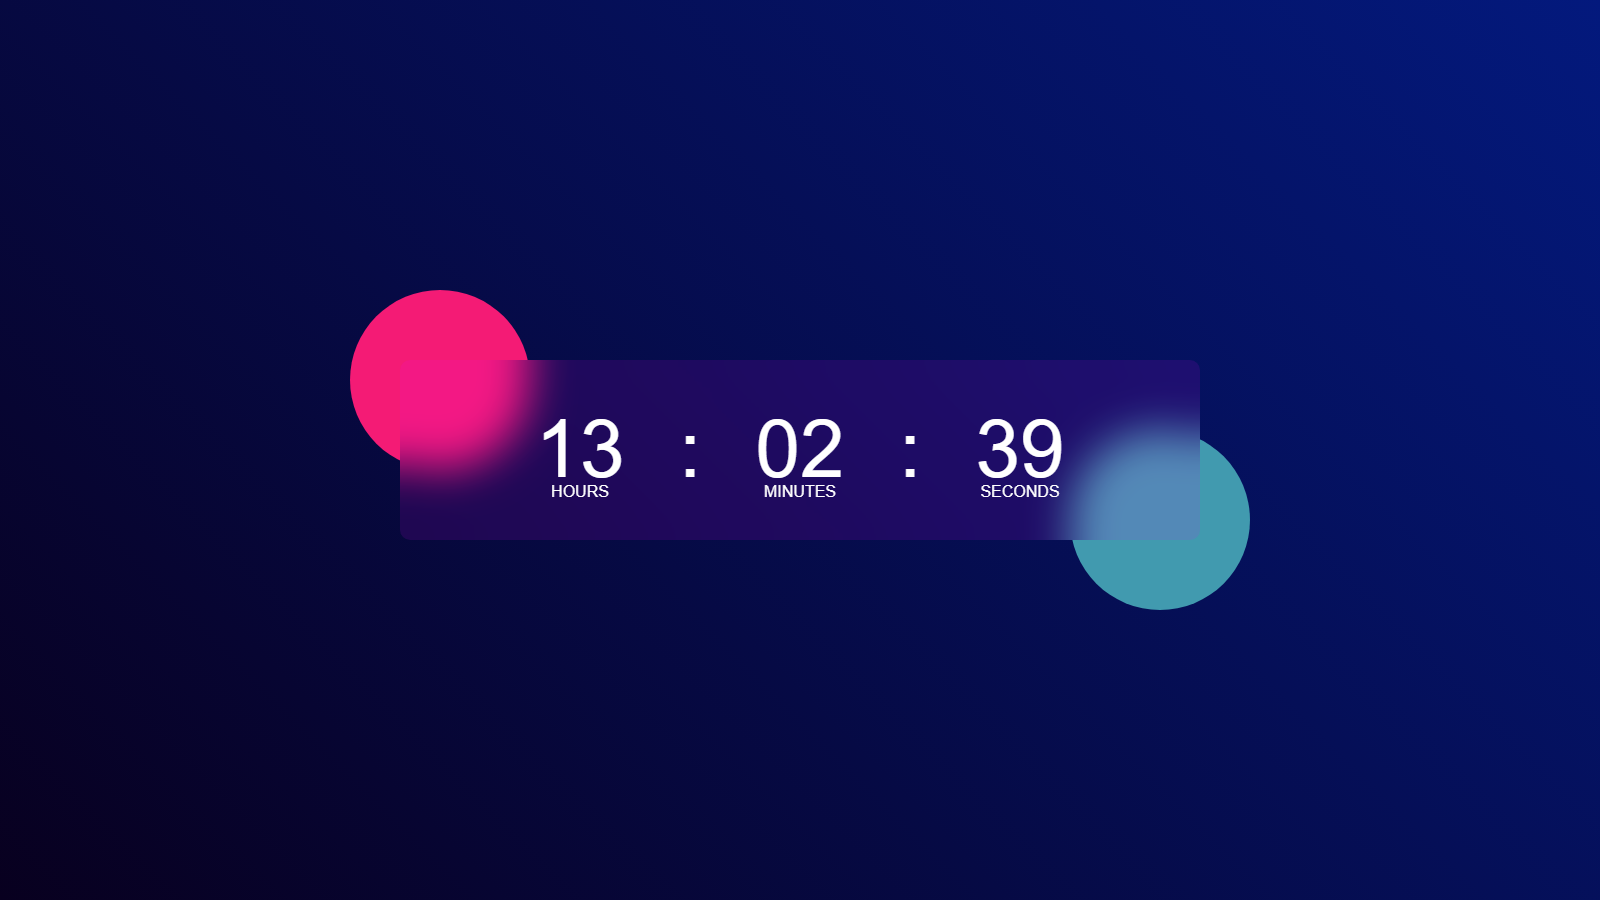
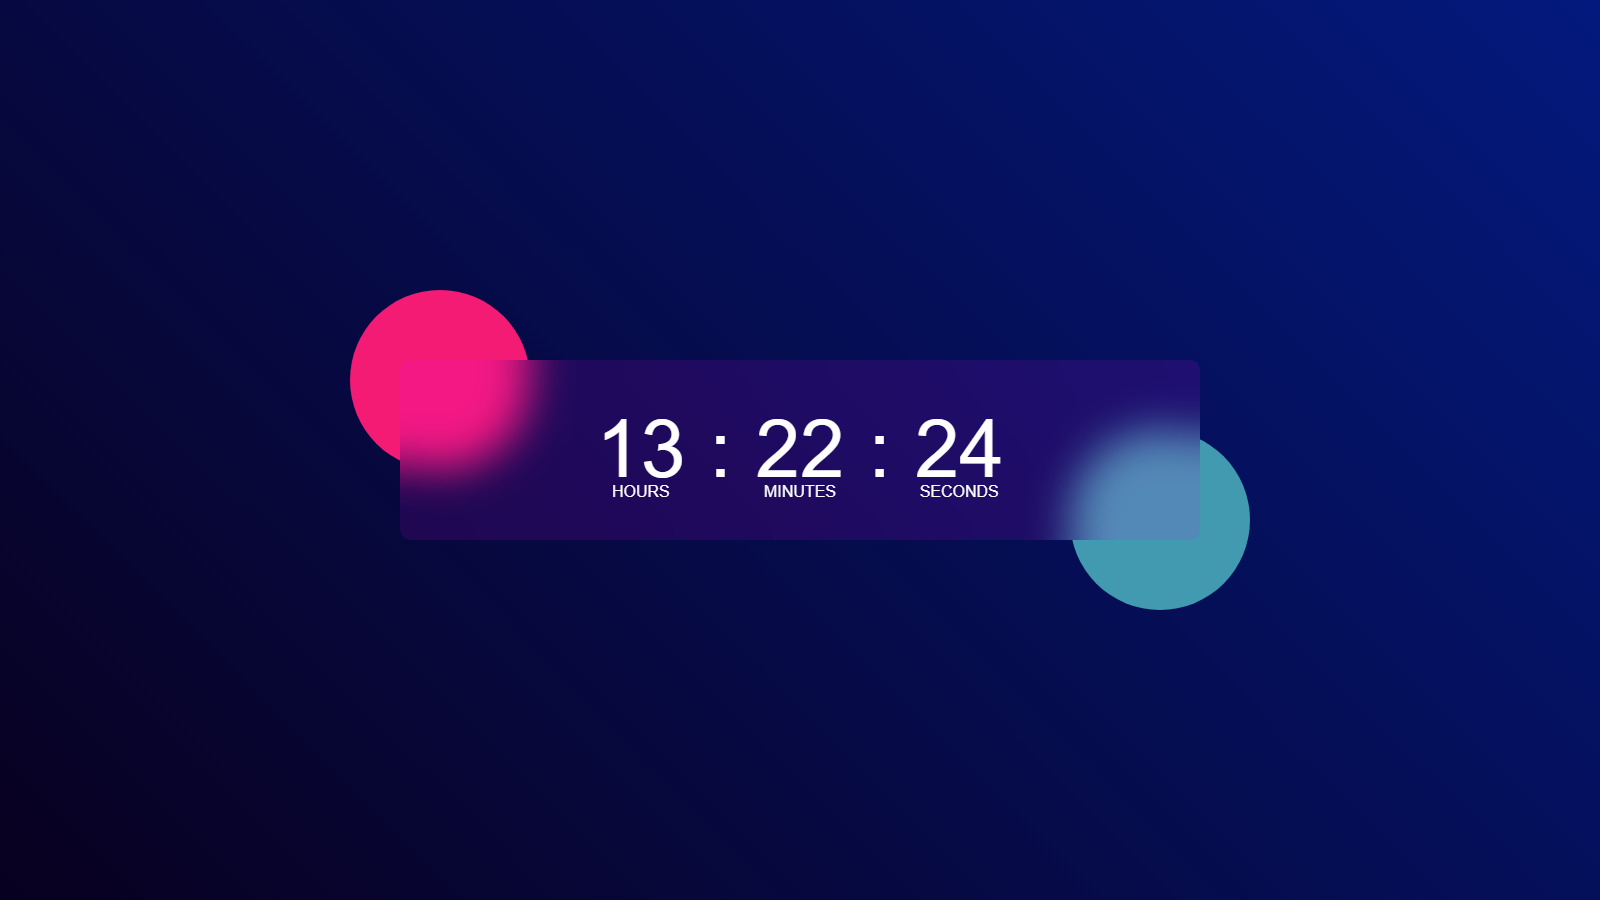
Enhance CSS for improved responsiveness; adjust container width and padding, update clock span sizes, and replace desktop and mobile images

Changed region(s): [[0.5625, 0.4667, 0.6875, 0.56], [0.3438, 0.4667, 0.4375, 0.56], [0.4688, 0.4667, 0.5, 0.5289]]

diff --git a/src/css/styles.css b/src/css/styles.css
@@ -33,7 +33,10 @@ body {
     display: flex;
     align-items: center;
     justify-content: center;
+    gap: clamp(8px, 3vw, 24px);
     backdrop-filter: blur(22px);
+    box-sizing: border-box;
+    padding: 0 12px;
 }
 
 .container::before {
@@ -62,10 +65,10 @@ body {
 
 .clock span {
     font-size: 80px;
-    width: 110px;
     display: inline-block;
     text-align: center;
     position: relative;
+    flex-shrink: 0;
 }
 
 .clock span::after {
@@ -94,15 +97,13 @@ body {
     }
 
     .clock span {
-        font-size: clamp(32px, 11vw, 80px);
-        width: auto;
-        min-width: 60px;
+        font-size: clamp(28px, 11vw, 80px);
     }
 }
 
 @media (max-width: 480px) {
     .container {
-        width: 270px;
+        width: min(320px, 92vw);
         height: 140px;
     }
 
@@ -120,25 +121,18 @@ body {
         bottom: -60px;
     }
 
-    .clock span {
-        font-size: 45px;
-        width: 45px;
-    }
-
     .clock span::after {
         font-size: 12px;
         bottom: -7px;
-        left: 55%;
     }
 }
 
 @media (max-width: 330px) {
     .container {
-        width: 240px;
+        width: min(280px, 92vw);
     }
 
     .clock span {
-        font-size: 40px;
-        width: 40px;
+        font-size: clamp(24px, 9vw, 40px);
     }
 }